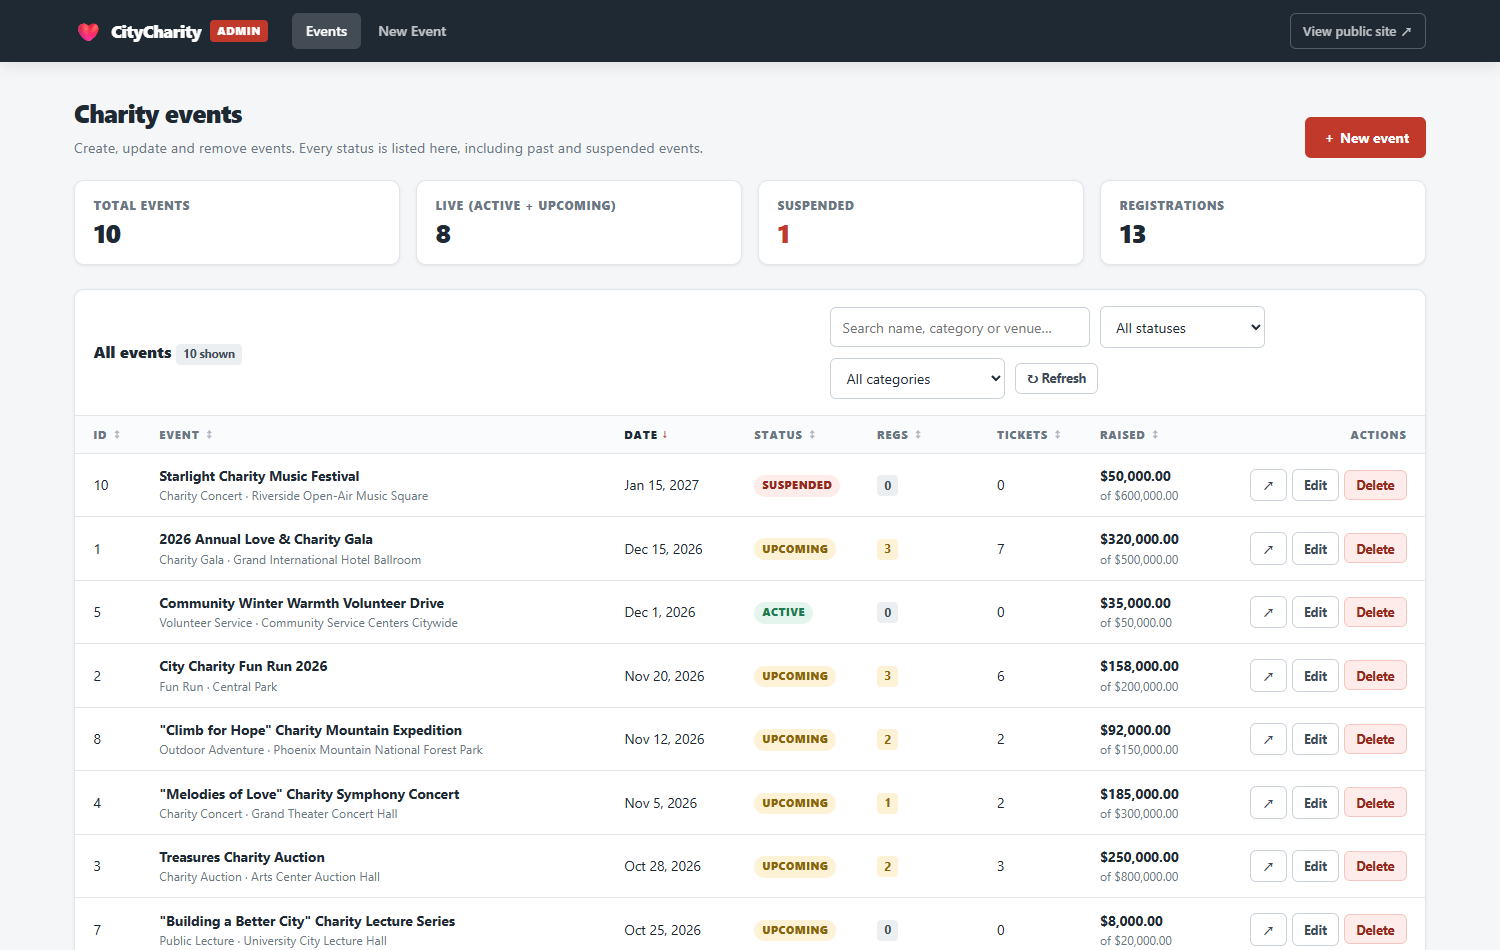
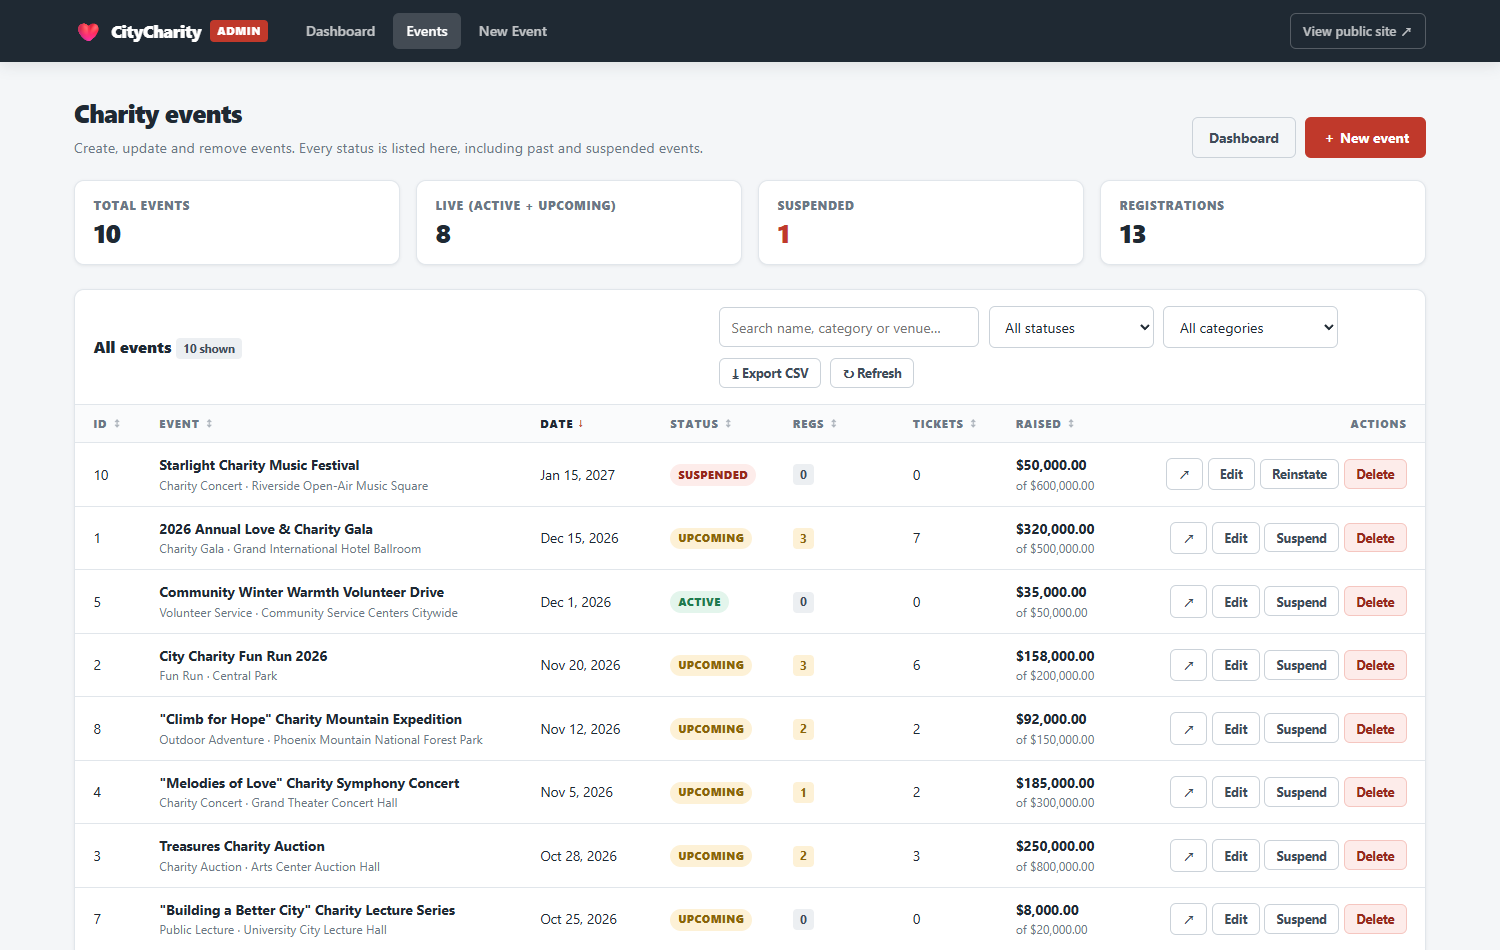
Admin: suspend or reinstate an event directly from the list
Suspending is an operational action taken far more often than editing a record, so it now has its own control in the row instead of a detour through the full form. The button sends a partial PUT containing only the status field, which the API merges into the existing record.

Because public visibility is enforced in SQL (WHERE status IN ('upcoming','active')), the change takes effect on the public site immediately: the visible event count went from 8 to 9 on reinstatement and back to 8 on suspension, verified against the API.

diff --git a/adminside/src/app/pages/event-list/event-list.ts b/adminside/src/app/pages/event-list/event-list.ts
@@ -57,6 +57,7 @@ export class EventList implements OnInit {
 
   readonly pendingDelete = signal<CharityEvent | null>(null);
   readonly deleting = signal(false);
+  readonly statusBusy = signal<number | null>(null);
 
   readonly statusText = statusLabel;
   readonly dateText = formatDate;
@@ -244,6 +245,47 @@ export class EventList implements OnInit {
     const csv = toCsv(rows, EventList.CSV_COLUMNS);
     downloadCsv(`charity-events-${todayStamp()}.csv`, csv);
     this.setNotice(`Exported ${rows.length} event(s) to CSV.`);
+  }
+
+  // ---------- Inline status change ----------
+
+  /** A past event has already ended; suspending it would mean nothing. */
+  canToggleStatus(event: CharityEvent): boolean {
+    return event.status !== 'past';
+  }
+
+  statusActionLabel(event: CharityEvent): string {
+    return event.status === 'suspended' ? 'Reinstate' : 'Suspend';
+  }
+
+  /**
+   * Suspend or reinstate straight from the row.
+   *
+   * This is a partial update — only `status` is sent, and the API merges it
+   * into the existing record. Suspending removes the event from every public
+   * listing immediately, because visibility is a data-level rule.
+   */
+  toggleStatus(event: CharityEvent): void {
+    const next: EventStatus = event.status === 'suspended' ? 'upcoming' : 'suspended';
+
+    this.statusBusy.set(event.event_id);
+    this.error.set('');
+
+    this.adminService.update(event.event_id, { status: next }).subscribe({
+      next: () => {
+        this.statusBusy.set(null);
+        this.setNotice(
+          next === 'suspended'
+            ? `"${event.event_name}" suspended — it is now hidden from the public site.`
+            : `"${event.event_name}" reinstated as an upcoming event.`
+        );
+        this.load();
+      },
+      error: (err) => {
+        this.statusBusy.set(null);
+        this.error.set(extractApiError(err, 'Unable to change the event status.'));
+      },
+    });
   }
 
   // ---------- Feedback ----------

diff --git a/adminside/src/app/pages/event-list/event-list.html b/adminside/src/app/pages/event-list/event-list.html
@@ -189,7 +189,7 @@
               </button>
             </th>
 
-            <th style="text-align: right; width: 190px">Actions</th>
+            <th style="text-align: right; width: 265px">Actions</th>
           </tr>
         </thead>
 
@@ -239,6 +239,21 @@
                 <a class="btn btn-sm btn-outline" [routerLink]="['/events', event.event_id, 'edit']">
                   Edit
                 </a>
+                @if (canToggleStatus(event)) {
+                  <button
+                    type="button"
+                    class="btn btn-sm btn-outline"
+                    (click)="toggleStatus(event)"
+                    [disabled]="statusBusy() === event.event_id"
+                    [title]="
+                      event.status === 'suspended'
+                        ? 'Publish this event again as upcoming'
+                        : 'Hide this event from the public site'
+                    "
+                  >
+                    {{ statusBusy() === event.event_id ? '…' : statusActionLabel(event) }}
+                  </button>
+                }
                 <button type="button" class="btn btn-sm btn-danger" (click)="askDelete(event)">
                   Delete
                 </button>

diff --git a/README.md b/README.md
@@ -404,7 +404,7 @@ src/app/
 | `/events/new` | Create form |
 | `/events/:id/edit` | Edit form + that event's registrations |
 
-A few interaction details matter in day-to-day use: **column sorting** on seven fields (status sorts by lifecycle rather than alphabetically), **independent text / status / category filters** with a one-click reset, a **per-row shortcut** to the public page, a delete dialog that **moves focus to the confirm button and closes on `Esc`**, **auto-dismissing** confirmations, and a route guard that **refuses to discard a half-filled form**.
+A few interaction details matter in day-to-day use: **column sorting** on seven fields (status sorts by lifecycle rather than alphabetically), **independent text / status / category filters** with a one-click reset, **CSV export of exactly the rows on screen**, a **one-click suspend / reinstate control** that publishes or hides an event immediately, a **per-row shortcut** to the public page, a delete dialog that **moves focus to the confirm button and closes on `Esc`**, **auto-dismissing** confirmations, and a route guard that **refuses to discard a half-filled form**.
 
 ---
 
@@ -998,7 +998,7 @@ src/app/
 | `/events/new` | 新建表单 |
 | `/events/:id/edit` | 编辑表单 + 该活动的报名数据 |
 
-日常使用中真正影响效率的细节也已处理：**七列可排序**（状态按生命周期排序而非字母序）、**文本 / 状态 / 类别三个独立筛选**并支持一键重置、每行提供**跳转公开页**的快捷入口、删除弹窗**自动聚焦确认按钮并可 `Esc` 关闭**、成功提示**自动消失**，以及**离开半填表单时拦截**的路由守卫。
+日常使用中真正影响效率的细节也已处理：**七列可排序**（状态按生命周期排序而非字母序）、**文本 / 状态 / 类别三个独立筛选**并支持一键重置、**按当前筛选结果导出 CSV**、**一键暂停 / 恢复**活动并即时生效于公开站、每行提供**跳转公开页**的快捷入口、删除弹窗**自动聚焦确认按钮并可 `Esc` 关闭**、成功提示**自动消失**，以及**离开半填表单时拦截**的路由守卫。
 
 ---
 
